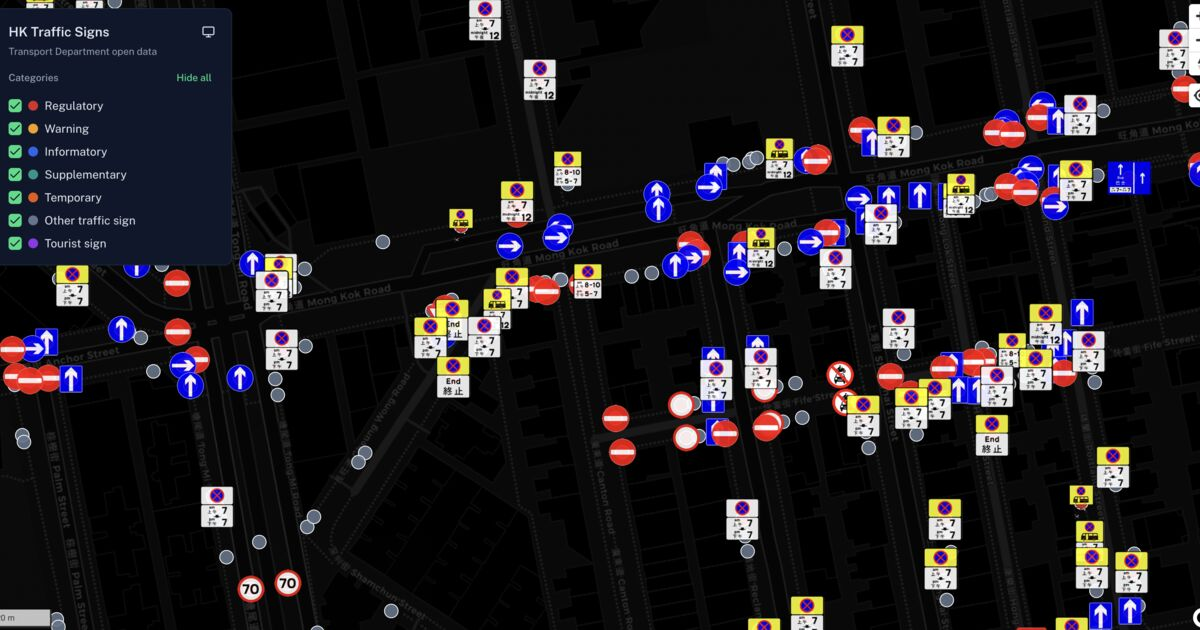
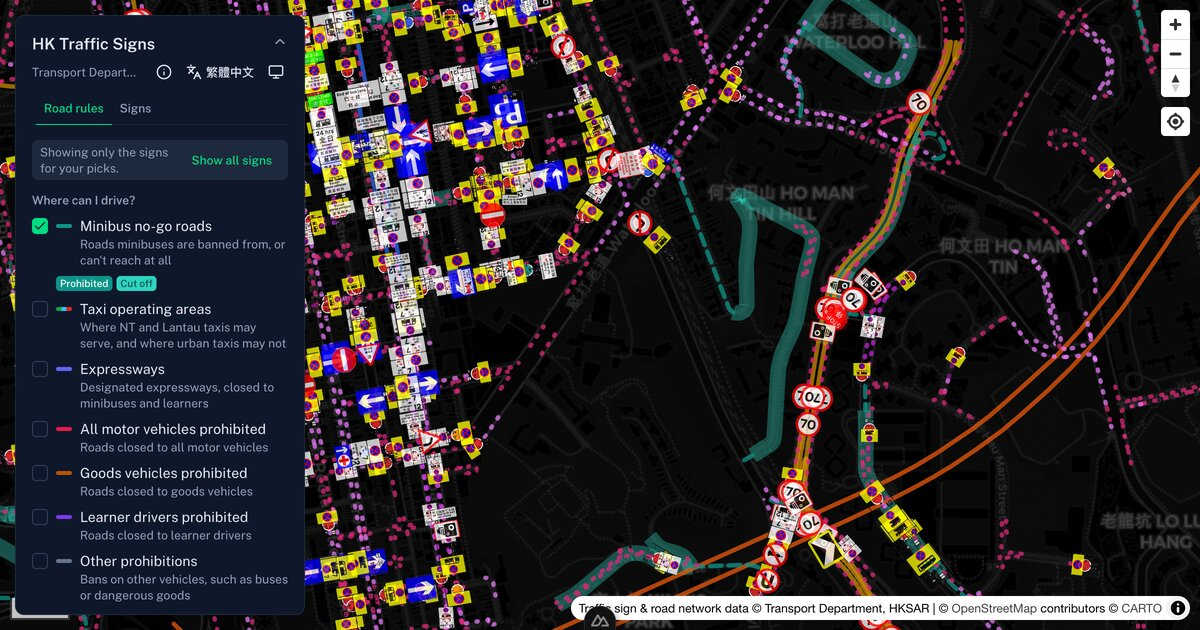
📝 Lead the copy with road rules, and say the map is no authority
The site now opens on road rules, so the words around it do too. The meta
description, site summary, OG tagline, About text and FAQ intro name the
readings first (speed limits, no stopping, bus lanes, vehicle bans, minibus
no-go roads, taxi areas) and the signs after. The About steps follow the
panel's order, the FAQ description leads with the rules layer, and the README
intro covers both TD datasets. The OG cover is re-shot from the new panel: the
Road rules tab over Ho Man Tin, with the minibus, speed and no-stopping lines
and their plates. The "Signs · advanced" tab is now just "Signs".

Some readings are worked out or curated here rather than published by TD, and
all of them can lag the road, so the site now says so where a driver will see
it. Each rule popup ends with "May be out of date or inexact. Follow the signs
on the road and check TD's latest traffic notices", linked to TD's listing
in the reader's language. The About disclaimer and the FAQ's "official site"
answer name the derived layers, tell drivers to check TD's notices and road
conditions, and state that everything is provided as is, without warranty,
with no liability accepted. The rules tab footer and the README carry a
shorter form.

tdLang() in app/utils/links.ts is now the one td.gov.hk en/tc switch, shared
by the notices link and the Road Users' Code link.

diff --git a/app/components/RulePopup.vue b/app/components/RulePopup.vue
@@ -2,6 +2,7 @@
 import { ruleRows, ruleTitleKey, rowKeyFor, rowValueOf, linkedSignCodes, ruleColor, SPEED_COLORS, NSR_VEH_COLORS, CUTOFF_COLOR, type NsrVehicle, type RuleLayer } from '~/composables/useRoadRules'
 import { useRuleNotes } from '~/composables/useRuleNotes'
 import { formatLngLat } from '~/utils/format'
+import { tdTrafficNoticesUrl } from '~/utils/links'
 import tilesVersion from '~/data/tilesVersion.json'
 
 // Detail card for a clicked rule line (speed limit / bus-only lane /
@@ -132,6 +133,24 @@ function onShowSigns() {
           >
             {{ $t('rules.asOf', { date: asOf }) }}
           </p>
+          <!-- Every reading can lag the road, and some are worked out rather
+               than posted, so each card names the plates and TD's own notices
+               as the authority. -->
+          <i18n-t
+            keypath="rules.verify"
+            tag="p"
+            scope="global"
+            class="mt-1 text-xs text-muted"
+          >
+            <template #notices>
+              <a
+                :href="tdTrafficNoticesUrl(locale)"
+                target="_blank"
+                rel="noopener"
+                class="underline decoration-dotted underline-offset-2"
+              >{{ $t('rules.noticesLabel') }}</a>
+            </template>
+          </i18n-t>
         </div>
       </div>
       <UButton

diff --git a/app/components/AboutContent.vue b/app/components/AboutContent.vue
@@ -23,7 +23,7 @@ const LINKS = {
 const attributionLinks = computed(() => ({
   tad: LINKS.tad,
   roadNetwork: LINKS.roadNetwork,
-  ruc: `https://www.td.gov.hk/${locale.value === 'zh-HK' ? 'tc' : 'en'}/road_safety/road_users_code/index/chapter_8_the_language_of_the_road/`,
+  ruc: `https://www.td.gov.hk/${tdLang(locale.value)}/road_safety/road_users_code/index/chapter_8_the_language_of_the_road/`,
   terms: LINKS.terms,
   osm: LINKS.osm
 }))
@@ -75,9 +75,21 @@ const attributionLinks = computed(() => ({
           >{{ $t(`about.${slot}Label`) }}</a>
         </template>
       </i18n-t>
-      <p class="text-muted">
-        {{ $t('about.disclaimer') }}
-      </p>
+      <i18n-t
+        keypath="about.disclaimer"
+        tag="p"
+        scope="global"
+        class="text-muted"
+      >
+        <template #notices>
+          <a
+            :href="tdTrafficNoticesUrl(locale)"
+            target="_blank"
+            rel="noopener"
+            class="text-primary underline"
+          >{{ $t('about.noticesLabel') }}</a>
+        </template>
+      </i18n-t>
     </section>
 
     <nav class="flex flex-wrap gap-x-4 gap-y-1 text-sm">

diff --git a/nuxt.config.ts b/nuxt.config.ts
@@ -27,7 +27,7 @@ export default defineNuxtConfig({
     // SEO-length (~160 char) summary; the canonical long-form copy lives
     // in i18n/locales/en.json (site.summary). Kept in sync by hand —
     // nuxt.config is build-time and can't import locale messages.
-    description: 'Browse every Hong Kong road traffic sign on an interactive map, built from Transport Department open data.',
+    description: 'Hong Kong road rules and traffic signs on one interactive map: speed limits, no stopping, bus lanes, minibus no-go roads and taxi areas, from Transport Department open data.',
     defaultLocale: 'en'
   },
 

diff --git a/app/utils/links.ts b/app/utils/links.ts
@@ -1,0 +1,8 @@
+// td.gov.hk publishes each page twice, under /en/ and /tc/.
+export const tdLang = (locale: string) => (locale === 'zh-HK' ? 'tc' : 'en')
+
+// TD's own traffic-notice listing, where temporary closures and new
+// restrictions are announced first — the page every "check before you drive"
+// caveat points at.
+export const tdTrafficNoticesUrl = (locale: string) =>
+  `https://www.td.gov.hk/${tdLang(locale)}/traffic_notices/index.html`

diff --git a/CLAUDE.md b/CLAUDE.md
@@ -72,7 +72,7 @@ Key dataset fact: **`SIGNID` exists only on the `traffic-sign-abbreviation` clas
 - `useTrafficLayers.ts` = singleton state: `enabled` per category, `selectedSign`, and `mapFilter` — the one filter every layer rides. Category mode: `['in', categoryKeyExpr, enabledKeys]`. Sign-ID mode: `['in', SIGNID, picks]`, **widened** to `['any', that, ['match', STACK_ID, companionPosts, true, false]]` once the lazily dynamic-imported `signGroups.json` index resolves (`loadGroupIndex`, fired by TrafficMap when sign-ID mode is active) — so a matched sign pulls in its co-located post-mates and renders as the **whole signpost**, not a lone plate (companions already carry `STACK_INDEX` + collapsed geometry in the full archive, so they stack for free). `match` (not `in`) on `STACK_ID` for the O(1) lookup — a common sign sits on thousands of posts (`TS860`: 5,332). Until the index loads (or for a sign on no multi-member post) it stays the plain `in`. The allowlist has **two write shapes**: `filterToSigns`/`filterToSign` REPLACE it (the exclusive "show only this sign" of `SignPopup`), while `addSigns`/`removeSigns` add and subtract a contribution without clearing the rest — the road-rules rows use those, so several rows read as a union of their plates. Hence **two** active-state predicates, both kept: `isOnlySigns` (equality, for the exclusive buttons) and `hasAllSigns` (containment, for a union member) — collapsing them lights an exclusive button up for a filter that merely includes its code. `removeSigns` returns to `category` mode when the allowlist empties, because an empty allowlist in sign-ID mode is a filter that shows nothing and every layer (the dot included) rides it.
 - `TrafficMap.vue` builds the map: an always-on `sign-points` circle (coloured by `categoryColor` = `match` on `categoryKeyExpr`) as the baseline marker; per-tier `sign-tier-N` symbol layers for **lone** signs (`minzoom` = tier minzoom, `icon-size` ramps from shared `SIGN_FIRST_SIZE` up to the tier size, collision fully disabled) plus the single `sign-stack` layer for signpost members (see Signpost stacking); a `sel` GeoJSON highlight overlay (halo+dot+icon) moved to the top on every selection; click collects all signs in a 6px box, de-dupes, and cycles through them on repeat clicks. **Two vector sources** are registered (`signs-lod` = thinned overview archive, `signs-full` = retain-all archive); the sign layers read the one `sourceForMode(filterMode)` picks — `signs-lod` in category mode, `signs-full` in sign-ID mode. MapLibre can't repoint a live layer's source, so a `filterMode` flip calls `removeSignLayers()`/`addSignLayers(source)`; the sign layers are inserted **beneath the overlay stack** (`beforeId: 'sel-group-glow'`, the lowest overlay) so the selection/group overlays are structurally always on top across the swap (no per-selection `moveLayer` needed). **Signpost stacking**: a post's members (every `GG_NAME` face sharing a pole point, keyed by `STACK_ID`) are collapsed at build time (step 4) to one anchor, each carrying its face's bearing, so they're a **rigid post**. Lone signs render in the per-tier `sign-tier-N` layers; every **stacked** member is excluded from those (`['!', ['has','STACK_INDEX']]`) and instead drawn by the one **`sign-stack`** layer, because a post must be **one sizing unit**. That layer draws each member's `icon-image` from the **common-width** `signs-stacked` set (`['concat', ['case', ['has','STACK_INDEX'], 'signw-', 'sign-'], SIGNID]`; the lazy loader fetches `/signs-stacked/` vs `/signs/` by prefix), so plates keep their true aspect (wide→short, tall stays tall); offsets them with a data-driven `icon-offset` = `match` on **`STACK_OFF`** → `[0, STACK_OFF]` over a fixed grid (`OFFSET_STEP` 8 px steps up to `OFFSET_MAX`; baked per member in step 3) into a column (main on top, supplementary below); and sizes the **whole post by one `icon-size`** keyed on the primary tier (**`STACK_TIER`**, baked in step 3), all members revealing together at `STACK_MINZOOM` (= `TIER_LOD[0].minzoom`). Because every member shares that one multiplier and the images are width-normalized, the plates keep their **real-life height ratio at every zoom** — the earlier per-tier sizing scaled mixed-tier members differently and skewed it (the bug this layer fixes). The offset is in icon source-px so it scales with `icon-size` (the factor *cancels out of the spacing*) and rides `icon-rotate` (= the member's `FACE_BEARING`, uniform within a face), so each **face's column rotates rigidly** to its facing — a back-to-back pole's two faces — the forward face on the post facing, the no-entry face turned 180° (sides at 90°/270° when a pole carries more) — hang from the anchor in opposite directions, which is how the map shows that the signs on one pole face different ways. Lone signs' `icon-size` stays the per-tier ramp (fixing on-screen height); the width-normalized stacked images get their width fixed by the shared multiplier — the image encodes which dimension is pinned. **Group highlight**: clicking any sign in an assembly is treated as selecting the **whole post** — the single-sign `sel` overlay is suppressed for grouped signs (else only the clicked member would balloon and its halo would land at the post anchor, not the offset pictogram). Instead a `sel-group` GeoJSON source is filled with every member sharing its `STACK_ID` (gathered via `querySourceFeatures` on the active source — *not* the tier layers, which get hidden next, and a source query also survives re-clicking the same post; deduped by `STACK_INDEX`). Two layers — `sel-group-glow` (a generated glow disc) + `sel-group-top` (the pictogram) — re-draw every member at the shared **`EMPHASIS_SIZE`** (uniform, so a lone click and a group click enlarge alike, and one zoom-interpolate ⇒ no per-tier split) with `stackOffset`, so the whole post enlarges together. The selected post's base pictograms (now all on the `sign-stack` layer) are hidden via `stackFilter`'s `hideStack` arg (re-applied by `refreshSignFilters` on selection) so they don't show doubled under the enlarged copies.
 
-- **Filter panel tabs** (`LayerFilterPanel.vue`): **Road rules** (the default, the panel's front door) and **Signs · advanced** (the category list, the hidden-signs row and the sign-ID search, behind their own `By category | By sign ID` switch). The tab (`hk-signs:panel-tab`) is **presentation only and deliberately not `filterMode`**: ticking a rule row calls `addSigns`, which flips the map to sign-ID mode while the user stays on the Road rules tab, so the two cannot be one value (they were, while the rules legend sat under both filter tabs). The rules tab therefore carries its own way back — a sticky "Showing only the signs for your picks · Show all signs" line whenever `filterMode` is `sign-id`, which sets `category` exactly as the Signs tab's switch does (picks kept) — and the Signs tab a "N road rules on · Edit" link back. Its rows are grouped under question headings by `LEGEND_SECTIONS` (`useRoadRules.ts`), presentation only like the taxi fold, each with a one-line `rules.desc.<key>`; a dev-only check throws if a legend entry is in no section or two (or a section names a key that is no entry), so a new `RULE_ROWS` entry must be placed there too. The tab uses `useLocalStorage(…, { initOnMounted: true })` and the inner filter-mode switch a mirror synced on mount — binding UTabs straight to an eagerly-read localStorage ref leaves the prerendered indicator stuck. Both tab bodies are `v-show`, so the sign-ID search keeps its query across a trip to the rules tab.
+- **Filter panel tabs** (`LayerFilterPanel.vue`): **Road rules** (the default, the panel's front door) and **Signs** (the category list, the hidden-signs row and the sign-ID search, behind their own `By category | By sign ID` switch). The tab (`hk-signs:panel-tab`) is **presentation only and deliberately not `filterMode`**: ticking a rule row calls `addSigns`, which flips the map to sign-ID mode while the user stays on the Road rules tab, so the two cannot be one value (they were, while the rules legend sat under both filter tabs). The rules tab therefore carries its own way back — a sticky "Showing only the signs for your picks · Show all signs" line whenever `filterMode` is `sign-id`, which sets `category` exactly as the Signs tab's switch does (picks kept) — and the Signs tab a "N road rules on · Edit" link back. Its rows are grouped under question headings by `LEGEND_SECTIONS` (`useRoadRules.ts`), presentation only like the taxi fold, each with a one-line `rules.desc.<key>`; a dev-only check throws if a legend entry is in no section or two (or a section names a key that is no entry), so a new `RULE_ROWS` entry must be placed there too. The tab uses `useLocalStorage(…, { initOnMounted: true })` and the inner filter-mode switch a mirror synced on mount — binding UTabs straight to an eagerly-read localStorage ref leaves the prerendered indicator stuck. Both tab bodies are `v-show`, so the sign-ID search keeps its query across a trip to the rules tab.
 
 - **Road-rules overlay** (`useRoadRules.ts` + TrafficMap + `LayerFilterPanel`'s Road rules tab + `RulePopup.vue`): a third `pmtiles://` source (`rules`) drawn as `line` layers, the first non-point layers in the app. `RULE_ROWS` (legend order, colours, `rules.rows.<key>` labels; `SPEED_COLORS` colours speed lines by value, `NSR_VEH_COLORS` no-stopping lines by `veh`, each with a chip row under its legend row) is the runtime twin of `RDNET_RULE_LAYERS`/`PROHIBITION_KINDS`/`NSR_VEHICLE_TYPES`. **Two source-layers hold several rows each and are SPLIT by a tile property** (`ROW_SPLIT_PROP`: `prohibition` by `kind`, `taxi` by `taxi`); every other row still has `key === layer` and carries neither discriminator. The taxi rows deliberately use their own `RuleRow.taxi` field rather than reusing `kind`, because `prohibitionColorStops` is built from the rows that carry `kind` and would otherwise pick them up. **Every place that turns a clicked FEATURE into a row goes through `rowValueOf(layer, properties)`** — reading `properties.kind` directly was correct while prohibitions were the only split layer, but a taxi feature carries `taxi` and no `kind`, so a clicked Lantau band tested against the NT row: unpickable unless NT happened to be on, and mislabelled when it was. Beyond the split, the `plb` row owns **two** source-layers: TD's `kind: 'plb'` prohibitions AND the derived `cutoff` band behind them (`rowKeyFor` maps both to it, so one checkbox draws both, and the band's teal lives in `CUTOFF_COLOR` since it has no row of its own to hold it). A ban and the area it seals off are one answer to one question, so they are one row; each still keeps its own popup title and swatch, and the legend row carries two chips naming the two readings. State is `rulesEnabled` (`hk-signs:road-rules` in localStorage; every row is an opt-in reading, unlike the category toggles, **except `plb`, which is on by default** via `RuleRow.defaultOn` — the overlay's most useful reading and the only one that needs no colour scale to parse). `selectedRule` (a clicked line) and `governingRule` (the rule found for the selected SIGN). A row means **"draw this reading, and show the plates that announce it"**: `onRuleToggle` (`LayerFilterPanel`, the only user write path into `rulesEnabled`) unions the row's `ROW_SIGN_CODES` into the sign-ID allowlist on tick and subtracts them on untick, so ticking several rows shows all their plates and an untick is the same gesture undone — the map filter is already an `in` over the allowlist, i.e. an OR. It adds **only the toggled row's** codes: recomputing the union over every row that is on was tried and reverted, because `plb` starts on and so never fires the handler — it folded TS119/TS522 in on the first tick of any OTHER row, which expanded the filter unasked (ticking bus lanes added speed plates) and broke the undo (unticking that one row left plb's two plates instead of every sign). Per-row costs only that a row already on contributes nothing until toggled. It is driven from that handler and **not a `watch(rulesEnabled)`**, which would also fire on `mergeDefaults` writing a newly-added row key and on mount, where the `plb` default-on row would filter a first visit down to its two plates. The four rows no plate links to (`pedzone`, `proh-gv`, `proh-all`, `proh-other`) contribute nothing and leave the sign filter alone. `RulePopup`'s button is the narrower twin — a clicked 70 km/h line adds `TS175` alone where the row covers every speed value — and does **not** enable its row, because TrafficMap picks a rule only through `isRowEnabled`, so a clicked line's row is necessarily already on (a write there would be dead code AND a second writer of `rulesEnabled`). Getting the lines over the *unfiltered* sign map is therefore two steps: tick the row, then "Show all signs" (the lines stay — `rulesEnabled` is independent of `filterMode`). ⚠ `mergeDefaults` only fills in MISSING keys, so changing an existing row's default is invisible to anyone who has already loaded the app — a default change needs a NEW row key (why the merged row is `plb`, not `proh-plb`). Each kind is **two layers**: `rule-<layer>-hit` (14 px, `line-opacity` 0, **always visible**) and `rule-<layer>` (toggled by `visibility`; a split layer additionally by an `in` filter over its enabled rows' values — `enabledKinds` for prohibitions, `enabledTaxis` for taxis). The hit layer is load-bearing twice: click tolerance on a 1–6 px line, and **keeping the source's tiles resident when every overlay is off** — MapLibre only requests tiles for non-hidden layers, and the sign popup's "applies here" lookup (`SIGN_RULE_LINKS`: a TS175 → the nearest `speed=70` line within `SIGN_RULE_RADIUS_M` 15 m; a no-stopping plate → the nearest NSR line of the same `veh` **and** `tz`, via `querySourceFeatures` + `pointToLineMetres` in `app/utils/geo.ts`) needs them loaded. ⚠ **Residency is not completeness, and the lookup does NOT resolve at every zoom** — MapLibre's `used` flag is per *source* (the always-on `speed` hit layer keeps the tiles coming from z9), but what is IN a tile is set per feature by `tippecanoe.minzoom`. So `nsr` (z12) resolves nothing below z12 — all **28 no-stopping codes, ~6.5k clickable signs, 0 %**; quantization costs the other three linked layers a little at the floor, **83.5 % at z9 and 95.1 % at z10** against a ~97 % ceiling (measured territory-wide; the residue is signs genuinely >15 m from any TD line). This is a withheld answer, never a wrong one — `SignPopup` hides the block outright, so a miss reads exactly like a sign with no rule. **Do not "fix" it by gating the lookup to null below some zoom** (that is already the output, minus the 83.5 % it gets right), and **do not raise a linked layer's `tippecanoe.minzoom`** — below its `RULE_MINZOOM` the lookup is that layer's only consumer, so the bytes and the feature go together (measured: `prohibition` is ~48 % of the z9/z10 tiles, but those are 82/100 KB territory-wide and are fetched only by a user who zooms to the floor — MapLibre 5 has no parent prefetch, and the map lands at z11). The real improvement, if one is wanted, is a third `governingRule` state distinguishing "no rule here" from "can't tell at this zoom". `cutoff` gets **no hit layer** — it is only ever a 4–22 px band. `taxi` DOES get one, but a **toggled** one that follows its row's visibility rather than being always on: its `area`/`dest` features are bands, yet a designated `route` draws at exactly `RULE_LINE_WIDTH`, so it needs the tolerance every other thin line gets, while nothing requires its tiles kept resident (no taxi plate drives the "applies here" lookup). ⚠ **Hiding a layer saves a bucket and a hit-test, never bytes** — an MVT tile carries every source-layer, and the always-on `rule-speed-hit` already pulls this source from z9, so the taxi features ship to every visitor with all three rows off. Measured: z11 (the landing zoom) went 16.9 → 31.6 KiB per tile, z10 16.7 → 38.9 KiB, archive 3.88 → 5.16 MB. The only lever on that is a SEPARATE archive and source registered on first tick (the `signs-lod`/`signs-full` precedent) — not a `minzoom` bump, which would move the cost and cost the reading its point. Rule layers are added **before** `addSignLayers` on the same `sel-group-glow` anchor so a filter-mode flip re-inserts the sign layers above them (roads under signs), and their ids stay **out of `signLayerIds`** — the click handler's `featureKey` assumes point geometry. Clicks: signs first; only when no sign is hit do the hit lines get queried, and only rows the legend has on are pickable (the hit line exists regardless). `TS174` (50 km/h) links to nothing on purpose — the default limit has no rows — so its popup states that instead. **Every link is held to a measured ≥ 90 % within-15 m hit rate** over its code's installs at the tile (pole) position; for no-stopping that bar is on `veh` + `tz` together, because a veh-only match would hand a 7am–7pm plate the 24-hour line next to it. 28 codes pass; the 7am–7pm and 8–10am & 5–7pm all-vehicle zones do **not** (TS2133 18.5 %, TS2134 23.6 %, TS2230 17.1 % — TD codes most of those kerbs `OTH`), nor TS183 (clearway), TS2138, or the END-of-zone plates (a terminator says where a zone stops) — the numbers are in the `SIGN_RULE_LINKS` comment. Re-measure before adding a code. NSR draws dotted (`line-dasharray` `[0.1, 2]` + round caps) from z12, distinct from prohibition dashes. `cutoff` is drawn FIRST (under every rule line) as a wide 35 %-opacity band with **butt caps** — round caps of adjoining edges stack into bright dots at every junction — and its popup swaps the source line for `rules.cutoffSource` (worked out, not a posted rule). The `expressway` band (indigo `#6366f1`, fainter where `plb_en` is set) draws between `taxi` and `cutoff` with the same butt caps (`BAND_LAYERS`), a TOGGLED hit layer like `taxi`'s, its own `rules.expresswaySource` line, and `TS353`/`TS354` as hand-added row codes (`CURATED_ROW_CODES`, never `SIGN_RULE_LINKS` — they mark where the rules start and end). The `taxi` bands draw first of all (beneath `cutoff`), in the licence colours, with the same butt caps and their own `rules.taxiSource` line. ⚠ `access` varies **width and opacity, never the dash pattern** — `line-dasharray` is the one line paint MapLibre will not take a data expression for, and splitting this into two layers to dash one would double the toggling and the click handling for a cosmetic difference; so an operating `area` is widest and faintest, a `dest` as wide but brighter, a `route` narrow and brightest. Each width rides in the interpolate's STOP OUTPUTS, as `plateSizeFactorExpr` and the bus-lane offset do. The three taxi rows render as **ONE legend row** whose chips toggle them individually (`RuleRow.group` + `LEGEND_ENTRIES`): "which colour may serve this street" is one question, and three checkboxes for it crowded a panel that already had nine. The fold is **presentation only** — state, colour, tile filter and `ROW_SIGN_CODES` all stay per row, so `enabledTaxis`, `rowValueOf` and the sign-filter union are untouched and a chip is just `onRuleToggle` on its own key. A grouped row's swatch is its members' colours side by side, its checkbox is on when ANY member is, and switching it off remembers which chips were on so switching it back does not silently widen the reading. That memory is per session on purpose: the members' own keys are what localStorage persists. ⚠ A grouped row's key (`taxi`) labels it but is **not** a `rulesEnabled` key — there is no such state. The `area`/`dest`/`route` chips this row used to carry are gone with the fold; the popup names the access per line instead. A bus lane's `line-offset` puts it on its `bound` side; the factor rides in the interpolate's stop outputs (zoom can't sit under an outer `*`).
 

diff --git a/README.md b/README.md
@@ -1,9 +1,21 @@
 # HK Traffic Sign Map
 
-Interactive, high-performance viewer for every traffic sign the Hong Kong
-Transport Department has surveyed, built on
+Interactive map of Hong Kong's road rules — where speed limits, no-stopping
+restrictions, bus lanes and vehicle bans apply, which roads minibuses cannot
+reach, where each taxi colour may serve — and of every traffic sign the Hong
+Kong Transport Department has surveyed, built on
 [OpenStreetMap](https://www.openstreetmap.org) and the TD's
-[Traffic Aids Drawings (2nd generation) open data](https://data.gov.hk/en-data/dataset/hk-td-tis_16-traffic-aids-drawings-v2).
+[Traffic Aids Drawings (2nd generation)](https://data.gov.hk/en-data/dataset/hk-td-tis_16-traffic-aids-drawings-v2)
+and [Road Network (2nd generation)](https://data.gov.hk/en-data/dataset/hk-td-tis_15-road-network-v2)
+open data.
+
+> **Not an authority.** This is an independent project, not affiliated with
+> the Transport Department. Some readings (the roads minibuses cannot reach,
+> taxi operating areas, expressways) are worked out or curated here rather
+> than published by TD, and all of the data can lag behind the road. It is
+> provided as is, without warranty, and the author accepts no liability for
+> its use. Always follow the signs on the road and TD's latest
+> [traffic notices](https://www.td.gov.hk/en/traffic_notices/index.html).
 
 Rendering uses [MapLibre GL JS](https://maplibre.org) over vector tiles packed
 into [PMTiles](https://docs.protomaps.com/pmtiles/) archives, so the whole app
